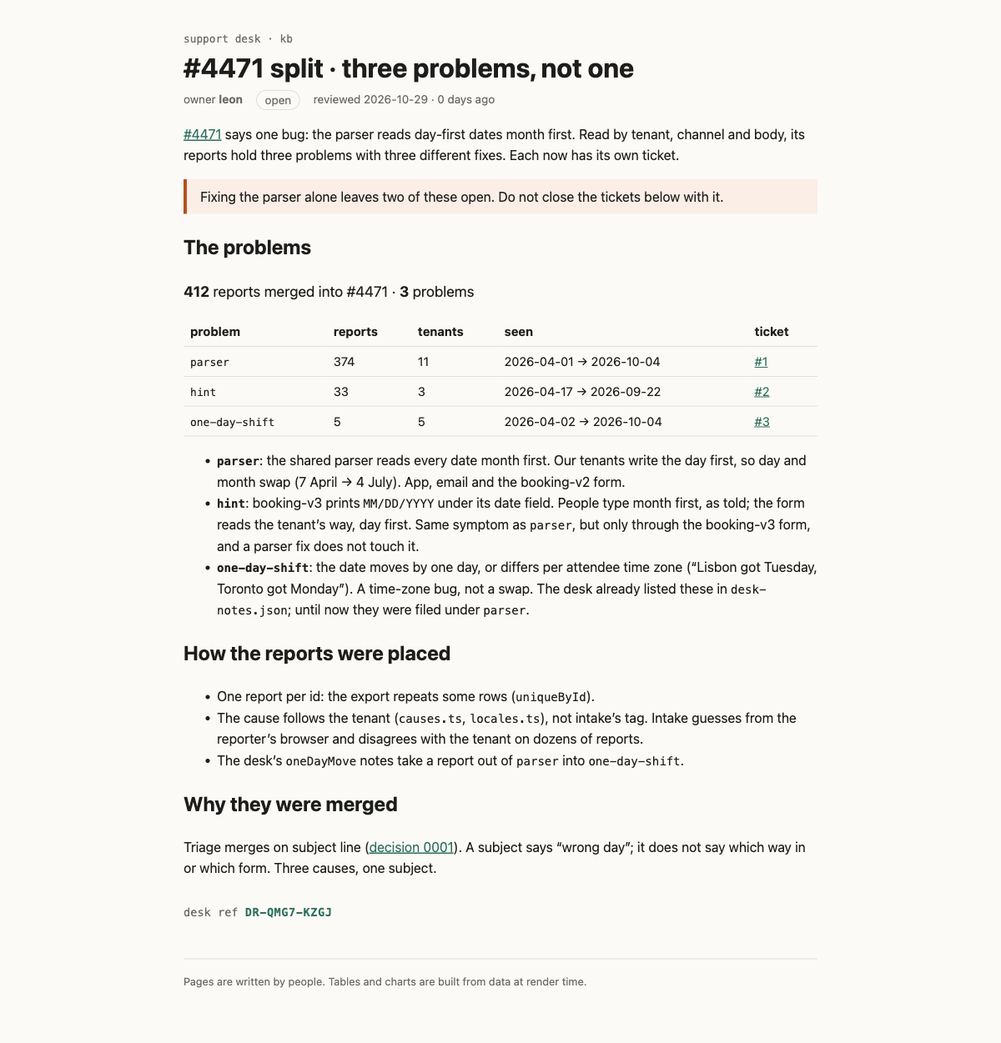
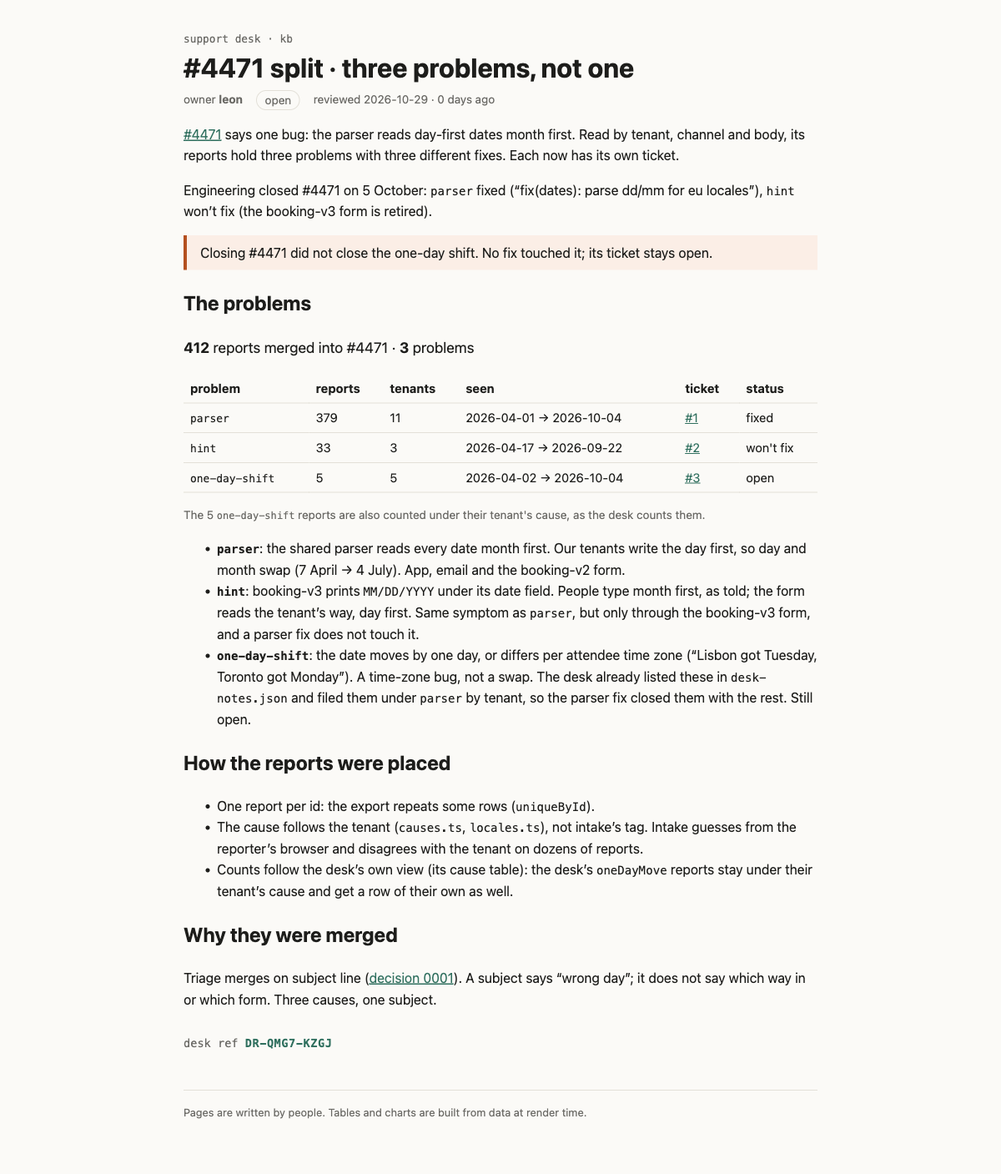
kb: #4471 split after the engineering update
Counts follow the desk's cause table (parser 379, one-day moves also
counted under their tenant's cause). Adds a status column: parser fixed,
hint won't fix (booking-v3 retired), one-day shift still open.

Changed region(s): [[0.185, 0.0312, 0.8325, 0.9041], [0.185, 0.9353, 0.5858, 0.9664]]

diff --git a/rendered/kb/incidents/4471/split.html b/rendered/kb/incidents/4471/split.html
@@ -9,43 +9,46 @@
 		<link href="../../../_app/immutable/chunks/B2Ul7l_u.js" rel="modulepreload">
 		<link href="../../../_app/immutable/chunks/BCPXOG7W.js" rel="modulepreload">
 		<link href="../../../_app/immutable/chunks/Dh1V97Jm.js" rel="modulepreload">
-		<link href="../../../_app/immutable/entry/app.D2J9NGue.js" rel="modulepreload">
+		<link href="../../../_app/immutable/entry/app.WtcD_OFS.js" rel="modulepreload">
 		<link href="../../../_app/immutable/nodes/0.C9KfiiPz.js" rel="modulepreload">
 		<link href="../../../_app/immutable/chunks/DK3Fl9T5.js" rel="modulepreload">
-		<link href="../../../_app/immutable/nodes/5.BkqYAxIV.js" rel="modulepreload">
-		<link href="../../../_app/immutable/chunks/Do1L2v9b.js" rel="modulepreload">
+		<link href="../../../_app/immutable/nodes/5.Dz5Aq1F1.js" rel="modulepreload">
+		<link href="../../../_app/immutable/chunks/NqUrn_PJ.js" rel="modulepreload">
 		<link href="../../../_app/immutable/chunks/BTPwLomz.js" rel="modulepreload">
 		<link href="../../../_app/immutable/chunks/CVBzP17p.js" rel="modulepreload">
 		<link href="../../../_app/immutable/chunks/BIy4WKJS.js" rel="modulepreload">
 		<!--e2jw2j--><!----><title>#4471 split · three problems, not one · support kb</title>
 		<link href="../../../_app/immutable/assets/runbook.COyw0cbZ.css" rel="stylesheet">
 		<link href="../../../_app/immutable/assets/Callout.AbLv9dM_.css" rel="stylesheet">
-		<link href="../../../_app/immutable/assets/_page.CgouBqEL.css" rel="stylesheet">
+		<link href="../../../_app/immutable/assets/_page.l10rmzXo.css" rel="stylesheet">
   </head>
   <body>
     <div style="display: contents"><!--[--><!--[--><!--[0--><!--[--><!--[--><!--[-1--><!--[--><div class="kb svelte-e2jw2j"><header><a class="crumb svelte-e2jw2j" href="/kb">support desk · kb</a> <h1 class="svelte-e2jw2j">#4471 split · three problems, not one</h1> <p class="meta svelte-e2jw2j"><span>owner <b>leon</b></span> <span class="status open svelte-e2jw2j">open</span> <span class="svelte-e2jw2j">reviewed 2026-10-29 · 0 days ago</span></p></header> <!--[-1--><!--]--> <main><p><a href="/kb/incidents/4471">#4471</a> says one bug: the parser reads day-first dates month first. Read by
 tenant, channel and body, its reports hold three problems with three different fixes.
-Each now has its own ticket.</p> <aside class="warn svelte-17bri61"><!---->Fixing the parser alone leaves two of these open. Do not close the tickets below with it.<!----></aside><!----> <h2>The problems</h2> <p class="sum svelte-1op6c6"><strong>412</strong> reports merged into #4471 · <strong>3</strong> problems</p> <table><thead><tr><th>problem</th><th>reports</th><th>tenants</th><th>seen</th><th>ticket</th></tr></thead><tbody><!--[--><tr><td><code>parser</code></td><td>374</td><td>11</td><td>2026-04-01 → 2026-10-04</td><td><!--[0--><a href="https://github.com/ljaworski/mega-s01e03-what-it-shows/issues/1">#1</a><!--]--></td></tr><tr><td><code>hint</code></td><td>33</td><td>3</td><td>2026-04-17 → 2026-09-22</td><td><!--[0--><a href="https://github.com/ljaworski/mega-s01e03-what-it-shows/issues/2">#2</a><!--]--></td></tr><tr><td><code>one-day-shift</code></td><td>5</td><td>5</td><td>2026-04-02 → 2026-10-04</td><td><!--[0--><a href="https://github.com/ljaworski/mega-s01e03-what-it-shows/issues/3">#3</a><!--]--></td></tr><!--]--></tbody></table><!----> <ul><li><strong><code>parser</code></strong>: the shared parser reads every date month first. Our tenants write the day
+Each now has its own ticket.</p> <p>Engineering closed #4471 on 5 October: <code>parser</code> fixed (“fix(dates): parse dd/mm for eu
+locales”), <code>hint</code> won’t fix (the booking-v3 form is retired).</p> <aside class="warn svelte-17bri61"><!---->Closing #4471 did not close the one-day shift. No fix touched it; its ticket stays open.<!----></aside><!----> <h2>The problems</h2> <p class="sum svelte-1op6c6"><strong>412</strong> reports merged into #4471 · <strong>3</strong> problems</p> <table><thead><tr><th>problem</th><th>reports</th><th>tenants</th><th>seen</th><th>ticket</th><th>status</th></tr></thead><tbody><!--[--><tr><td><code>parser</code></td><td>379</td><td>11</td><td>2026-04-01 → 2026-10-04</td><td><!--[0--><a href="https://github.com/ljaworski/mega-s01e03-what-it-shows/issues/1">#1</a><!--]--></td><td>fixed</td></tr><tr><td><code>hint</code></td><td>33</td><td>3</td><td>2026-04-17 → 2026-09-22</td><td><!--[0--><a href="https://github.com/ljaworski/mega-s01e03-what-it-shows/issues/2">#2</a><!--]--></td><td>won't fix</td></tr><tr><td><code>one-day-shift</code></td><td>5</td><td>5</td><td>2026-04-02 → 2026-10-04</td><td><!--[0--><a href="https://github.com/ljaworski/mega-s01e03-what-it-shows/issues/3">#3</a><!--]--></td><td>open</td></tr><!--]--></tbody></table> <!--[0--><p class="note svelte-1op6c6">The 5 <code>one-day-shift</code> reports are also counted under their tenant's cause, as the desk counts them.</p><!--]--><!----> <ul><li><strong><code>parser</code></strong>: the shared parser reads every date month first. Our tenants write the day
 first, so day and month swap (7 April → 4 July). App, email and the booking-v2 form.</li> <li><strong><code>hint</code></strong>: booking-v3 prints <code>MM/DD/YYYY</code> under its date field. People type month first,
 as told; the form reads the tenant’s way, day first. Same symptom as <code>parser</code>, but only
 through the booking-v3 form, and a parser fix does not touch it.</li> <li><strong><code>one-day-shift</code></strong>: the date moves by one day, or differs per attendee time zone (“Lisbon
 got Tuesday, Toronto got Monday”). A time-zone bug, not a swap. The desk already listed these
-in <code>desk-notes.json</code>; until now they were filed under <code>parser</code>.</li></ul> <h2>How the reports were placed</h2> <ul><li>One report per id: the export repeats some rows (<code>uniqueById</code>).</li> <li>The cause follows the tenant (<code>causes.ts</code>, <code>locales.ts</code>), not intake’s tag. Intake guesses
-from the reporter’s browser and disagrees with the tenant on dozens of reports.</li> <li>The desk’s <code>oneDayMove</code> notes take a report out of <code>parser</code> into <code>one-day-shift</code>.</li></ul> <h2>Why they were merged</h2> <p>Triage merges on subject line (<a href="/kb/decisions/0001-dedupe-by-subject">decision 0001</a>). A
+in <code>desk-notes.json</code> and filed them under <code>parser</code> by tenant, so the parser fix closed them
+with the rest. Still open.</li></ul> <h2>How the reports were placed</h2> <ul><li>One report per id: the export repeats some rows (<code>uniqueById</code>).</li> <li>The cause follows the tenant (<code>causes.ts</code>, <code>locales.ts</code>), not intake’s tag. Intake guesses
+from the reporter’s browser and disagrees with the tenant on dozens of reports.</li> <li>Counts follow the desk’s own view (its cause table): the desk’s <code>oneDayMove</code> reports stay
+under their tenant’s cause and get a row of their own as well.</li></ul> <h2>Why they were merged</h2> <p>Triage merges on subject line (<a href="/kb/decisions/0001-dedupe-by-subject">decision 0001</a>). A
 subject says “wrong day”; it does not say which way in or which form. Three causes, one subject.</p> <!--[0--><p class="stamp svelte-1280m42">desk ref <b class="svelte-1280m42">DR-QMG7-KZGJ</b></p><!--]--><!----><!----></main> <footer class="svelte-e2jw2j">Pages are written by people. Tables and charts are built from data at render time.</footer></div><!--]--><!--]--><!--]--><!----><!--]--><!--]--><!--]--><!----> <!--[-1--><!--]--><!--]-->
 			
 			<script>
 				{
-					__sveltekit_kxq0wt = {
+					__sveltekit_mimcuw = {
 						base: new URL("../../..", location).pathname.slice(0, -1),
-						version: "1793270823923"
+						version: "1793271088151"
 					};
 
 					const element = document.currentScript.parentElement;
 
 					import("../../../_app/immutable/entry/start.CH5w6lId.js").then(async (kit) => {
-						kit.init(__sveltekit_kxq0wt);
-						const app = await import("../../../_app/immutable/entry/app.D2J9NGue.js");
+						kit.init(__sveltekit_mimcuw);
+						const app = await import("../../../_app/immutable/entry/app.WtcD_OFS.js");
 						kit.start(app, element, {
 							node_ids: [0, 5],
 							data: [null,null],

diff --git a/rendered/_app/immutable/chunks/NqUrn_PJ.js b/rendered/_app/immutable/chunks/NqUrn_PJ.js
@@ -1,0 +1,13 @@
+import{t as e}from"./DK3Fl9T5.js";import{E as t,F as n,H as r,I as i,K as a,L as o,N as s,O as c,R as l,S as u,T as d,U as f,W as p,_ as m,c as h,h as g,k as _,n as v,q as y,r as b,t as x,w as S}from"./BCPXOG7W.js";import{t as C}from"./BTPwLomz.js";import{n as w,t as T}from"./CVBzP17p.js";import{a as E,l as D,r as O,t as k}from"./BIy4WKJS.js";var A=t(`<a> </a>`),j=t(`<tr><td><code> </code></td><td> </td><td> </td><td> </td><td><!></td><td> </td></tr>`),M=t(`<p class="note svelte-1op6c6"> <code>one-day-shift</code> reports are also counted under their tenant's cause, as the desk counts them.</p>`),N=t(`<p class="sum svelte-1op6c6"><strong> </strong> <strong> </strong> problems</p> <table><thead><tr><th>problem</th><th>reports</th><th>tenants</th><th>seen</th><th>ticket</th><th>status</th></tr></thead><tbody></tbody></table> <!>`,1);function P(e,t){p(t,!0);let d=v(t,`issues`,19,()=>({})),b=v(t,`status`,19,()=>({})),x=r(()=>D(w).filter(e=>e.mergedInto===t.ticket)),C=r(()=>_(x).filter(e=>T.oneDayMove.includes(e.id))),k=e=>e.map(e=>e.receivedAt.slice(0,10)).sort(),P=r(()=>[...E(_(x),O).map(e=>({problem:e.cause,reports:e.reports,tenants:e.tenants})),..._(C).length?[{problem:`one-day-shift`,reports:_(C),tenants:new Set(_(C).map(e=>e.tenant)).size}]:[]]);var F=N(),I=i(F),L=n(I),R=o(L,!0),z=l(L),B=l(z),V=o(B,!0);a(),y(I);var H=l(I,2),U=l(n(H));g(U,21,()=>_(P),e=>e.problem,(e,t)=>{var r=j(),i=n(r),a=n(i),f=o(a,!0);y(i);var p=l(i),g=o(p,!0),v=l(p),x=o(v,!0),C=l(v),w=o(C),T=l(C),E=n(T),D=e=>{var n=A(),r=o(n);s(e=>{h(n,`href`,d()[_(t).problem]),u(r,`#${e??``}`)},[()=>d()[_(t).problem].split(`/`).at(-1)]),S(e,n)},O=e=>{var t=c(`—`);S(e,t)};m(E,e=>{d()[_(t).problem]?e(D):e(O,-1)}),y(T);var M=l(T),N=o(M,!0);y(r),s((e,n)=>{u(f,_(t).problem),u(g,_(t).reports.length),u(x,_(t).tenants),u(w,`${e??``} → ${n??``}`),u(N,b()[_(t).problem]??`—`)},[()=>k(_(t).reports)[0],()=>k(_(t).reports).at(-1)]),S(e,r)}),y(U),y(H);var W=l(H,2),G=e=>{var t=M(),r=n(t);a(2),y(t),s(()=>u(r,`The ${_(C).length??``} `)),S(e,t)};m(W,e=>{_(C).length&&e(G)}),s(()=>{u(R,_(x).length),u(z,` reports merged into #${t.ticket??``} · `),u(V,_(P).length)}),S(e,F),f()}var F=`0123456789ABCDEFGHJKMNPQRSTVWXYZ`;function I(e,t){let n=t>>>0;for(let t=0;t<e.length;t++)n^=e.charCodeAt(t),n=Math.imul(n,16777619)>>>0;return n}function L(e){let t=e.trim(),n=I(t,2166136261),r=I(t,2654435769),i=BigInt(n)<<8n|BigInt(r&255),a=``;for(let e=0;e<8;e++)a=F[Number(i&31n)]+a,i>>=5n;return`DR-${a.slice(0,4)}-${a.slice(4)}`}var R=t(`<p class="stamp svelte-1280m42">desk ref <b class="svelte-1280m42"> </b></p>`),z=t(`<p class="stamp missing svelte-1280m42">no desk ref: this page isn't signed (no <code>signature</code> in its frontmatter)</p>`);function B(e,t){p(t,!0);let a=r(()=>t.signature?L(t.signature):null);var c=d(),h=i(c),g=e=>{var t=R(),r=l(n(t)),i=o(r,!0);y(t),s(()=>u(i,_(a))),S(e,t)},v=e=>{var t=z();S(e,t)};m(h,e=>{_(a)?e(g):e(v,-1)}),S(e,c),f()}var V=e({default:()=>X,metadata:()=>H}),H={layout:`runbook`,title:`#4471 split · three problems, not one`,owner:`leon`,status:`open`,reviewed:`2026-10-29T00:00:00.000Z`,signature:`v1.eyJzdWIiOiI1MTk0IiwiYXVkIjoiY2hhbGxlbmdlOndoYXQtaXQtc2hvd3MiLCJpYXQiOjE3OTMyNzA0NzYsImV4cCI6MTc5MzM1Njg3Nn0.yQCJJq495bMoJpZHYm20pMmKZVcDpp5b08XT_9W3PH0`},{layout:U,title:W,owner:G,status:K,reviewed:q,signature:J}=H,Y=t(`<p><a href="/kb/incidents/4471">#4471</a> says one bug: the parser reads day-first dates month first. Read by
+tenant, channel and body, its reports hold three problems with three different fixes.
+Each now has its own ticket.</p> <p>Engineering closed #4471 on 5 October: <code>parser</code> fixed (“fix(dates): parse dd/mm for eu
+locales”), <code>hint</code> won’t fix (the booking-v3 form is retired).</p> <!> <h2>The problems</h2> <!> <ul><li><strong><code>parser</code></strong>: the shared parser reads every date month first. Our tenants write the day
+first, so day and month swap (7 April → 4 July). App, email and the booking-v2 form.</li> <li><strong><code>hint</code></strong>: booking-v3 prints <code>MM/DD/YYYY</code> under its date field. People type month first,
+as told; the form reads the tenant’s way, day first. Same symptom as <code>parser</code>, but only
+through the booking-v3 form, and a parser fix does not touch it.</li> <li><strong><code>one-day-shift</code></strong>: the date moves by one day, or differs per attendee time zone (“Lisbon
+got Tuesday, Toronto got Monday”). A time-zone bug, not a swap. The desk already listed these
+in <code>desk-notes.json</code> and filed them under <code>parser</code> by tenant, so the parser fix closed them
+with the rest. Still open.</li></ul> <h2>How the reports were placed</h2> <ul><li>One report per id: the export repeats some rows (<code>uniqueById</code>).</li> <li>The cause follows the tenant (<code>causes.ts</code>, <code>locales.ts</code>), not intake’s tag. Intake guesses
+from the reporter’s browser and disagrees with the tenant on dozens of reports.</li> <li>Counts follow the desk’s own view (its cause table): the desk’s <code>oneDayMove</code> reports stay
+under their tenant’s cause and get a row of their own as well.</li></ul> <h2>Why they were merged</h2> <p>Triage merges on subject line (<a href="/kb/decisions/0001-dedupe-by-subject">decision 0001</a>). A
+subject says “wrong day”; it does not say which way in or which form. Three causes, one subject.</p> <!>`,1);function X(e,t){let n=x(t,[`children`,`$$slots`,`$$events`,`$$legacy`]),r=`https://github.com/ljaworski/mega-s01e03-what-it-shows/issues`,o={parser:`${r}/1`,hint:`${r}/2`,"one-day-shift":`${r}/3`},s={parser:`fixed`,hint:`won't fix`,"one-day-shift":`open`};C(e,b(()=>n,()=>H,{children:(e,t)=>{var n=Y(),r=l(i(n),4);k(r,{kind:`warn`,children:(e,t)=>{a();var n=c(`Closing #4471 did not close the one-day shift. No fix touched it; its ticket stays open.`);S(e,n)},$$slots:{default:!0}});var u=l(r,4);P(u,{ticket:4471,get issues(){return o},get status(){return s}}),B(l(u,12),{get signature(){return J}}),S(e,n)},$$slots:{default:!0}}))}export{X as n,V as t};

diff --git a/src/lib/kb/ProblemTable.svelte b/src/lib/kb/ProblemTable.svelte
@@ -4,26 +4,19 @@
   import { groupByCause, uniqueById, type Report } from '#lib/kb/causes';
   import { tenantOf } from '#lib/kb/locales';
 
-  // One row per problem merged into the ticket. Reports the desk read as a one-day move
-  // (desk-notes.json) are not a day/month swap, so they get their own row instead of a footnote.
-  let { ticket, issues = {} }: { ticket: number; issues?: Record<string, string> } = $props();
+  // One row per problem merged into the ticket. Causes are counted the desk's way (CauseTable:
+  // by tenant). Reports the desk read as a one-day move (desk-notes.json) are not a day/month
+  // swap, so they also get a row of their own instead of only a footnote.
+  let { ticket, issues = {}, status = {} }: { ticket: number; issues?: Record<string, string>; status?: Record<string, string> } =
+    $props();
 
   const merged = $derived(uniqueById(reports as Report[]).filter((r) => r.mergedInto === ticket));
   const shifted = $derived(merged.filter((r) => notes.oneDayMove.includes(r.id)));
+  const days = (rs: Report[]) => rs.map((r) => r.receivedAt.slice(0, 10)).sort();
   const rows = $derived([
-    ...groupByCause(merged.filter((r) => !notes.oneDayMove.includes(r.id)), tenantOf).map((g) => ({
-      problem: g.cause,
-      reports: g.reports.length,
-      tenants: g.tenants,
-      seen: `${g.firstSeen} → ${g.lastSeen}`,
-    })),
+    ...groupByCause(merged, tenantOf).map((g) => ({ problem: g.cause, reports: g.reports, tenants: g.tenants })),
     ...(shifted.length
-      ? [{
-          problem: 'one-day-shift',
-          reports: shifted.length,
-          tenants: new Set(shifted.map((r) => r.tenant)).size,
-          seen: `${shifted.map((r) => r.receivedAt.slice(0, 10)).sort()[0]} → ${shifted.map((r) => r.receivedAt.slice(0, 10)).sort().at(-1)}`,
-        }]
+      ? [{ problem: 'one-day-shift', reports: shifted, tenants: new Set(shifted.map((r) => r.tenant)).size }]
       : []),
   ]);
 </script>
@@ -34,20 +27,26 @@
 </p>
 
 <table>
-  <thead><tr><th>problem</th><th>reports</th><th>tenants</th><th>seen</th><th>ticket</th></tr></thead>
+  <thead><tr><th>problem</th><th>reports</th><th>tenants</th><th>seen</th><th>ticket</th><th>status</th></tr></thead>
   <tbody>
     {#each rows as r (r.problem)}
       <tr>
         <td><code>{r.problem}</code></td>
-        <td>{r.reports}</td>
+        <td>{r.reports.length}</td>
         <td>{r.tenants}</td>
-        <td>{r.seen}</td>
+        <td>{days(r.reports)[0]} → {days(r.reports).at(-1)}</td>
         <td>{#if issues[r.problem]}<a href={issues[r.problem]}>#{issues[r.problem].split('/').at(-1)}</a>{:else}—{/if}</td>
+        <td>{status[r.problem] ?? '—'}</td>
       </tr>
     {/each}
   </tbody>
 </table>
 
+{#if shifted.length}
+  <p class="note">The {shifted.length} <code>one-day-shift</code> reports are also counted under their tenant's cause, as the desk counts them.</p>
+{/if}
+
 <style>
   .sum { font-size: 1.1rem; }
+  .note { color: var(--muted); font-size: 0.85em; }
 </style>

diff --git a/rendered/kb.html b/rendered/kb.html
@@ -9,22 +9,22 @@
 		<link href="./_app/immutable/chunks/B2Ul7l_u.js" rel="modulepreload">
 		<link href="./_app/immutable/chunks/BCPXOG7W.js" rel="modulepreload">
 		<link href="./_app/immutable/chunks/Dh1V97Jm.js" rel="modulepreload">
-		<link href="./_app/immutable/entry/app.D2J9NGue.js" rel="modulepreload">
+		<link href="./_app/immutable/entry/app.WtcD_OFS.js" rel="modulepreload">
 		<link href="./_app/immutable/nodes/0.C9KfiiPz.js" rel="modulepreload">
 		<link href="./_app/immutable/chunks/DK3Fl9T5.js" rel="modulepreload">
-		<link href="./_app/immutable/nodes/2.Dl7bwH2X.js" rel="modulepreload">
+		<link href="./_app/immutable/nodes/2.ChipiNL0.js" rel="modulepreload">
 		<link href="./_app/immutable/chunks/BTPwLomz.js" rel="modulepreload">
 		<link href="./_app/immutable/chunks/YX22L_Ud.js" rel="modulepreload">
 		<link href="./_app/immutable/chunks/CgeRC4yK.js" rel="modulepreload">
 		<link href="./_app/immutable/chunks/CVBzP17p.js" rel="modulepreload">
 		<link href="./_app/immutable/chunks/BIy4WKJS.js" rel="modulepreload">
-		<link href="./_app/immutable/chunks/Do1L2v9b.js" rel="modulepreload">
+		<link href="./_app/immutable/chunks/NqUrn_PJ.js" rel="modulepreload">
 		<link href="./_app/immutable/chunks/BGqJVSDw.js" rel="modulepreload">
 		<!--e2jw2j--><!----><title>Support knowledge base · support kb</title>
 		<link href="./_app/immutable/assets/runbook.COyw0cbZ.css" rel="stylesheet">
 		<link href="./_app/immutable/assets/Callout.AbLv9dM_.css" rel="stylesheet">
 		<link href="./_app/immutable/assets/_page.D56XP2ro.css" rel="stylesheet">
-		<link href="./_app/immutable/assets/_page.CgouBqEL.css" rel="stylesheet">
+		<link href="./_app/immutable/assets/_page.l10rmzXo.css" rel="stylesheet">
 		<link href="./_app/immutable/assets/_page.DO6Yid7X.css" rel="stylesheet">
 		<link href="./_app/immutable/assets/2.Bt0MwIZg.css" rel="stylesheet">
   </head>
@@ -34,16 +34,16 @@ computed by a component, not typed into a paragraph.</p><!----></main> <footer c
 			
 			<script>
 				{
-					__sveltekit_kxq0wt = {
+					__sveltekit_mimcuw = {
 						base: new URL(".", location).pathname.slice(0, -1),
-						version: "1793270823923"
+						version: "1793271088151"
 					};
 
 					const element = document.currentScript.parentElement;
 
 					import("./_app/immutable/entry/start.CH5w6lId.js").then(async (kit) => {
-						kit.init(__sveltekit_kxq0wt);
-						const app = await import("./_app/immutable/entry/app.D2J9NGue.js");
+						kit.init(__sveltekit_mimcuw);
+						const app = await import("./_app/immutable/entry/app.WtcD_OFS.js");
 						kit.start(app, element, {
 							node_ids: [0, 2],
 							data: [null,null],

diff --git a/rendered/_app/immutable/nodes/2.ChipiNL0.js b/rendered/_app/immutable/nodes/2.ChipiNL0.js
@@ -1,0 +1,2 @@
+import{E as e,F as t,I as n,K as r,L as i,N as a,R as o,S as s,U as c,W as l,c as u,d,h as f,i as p,k as m,q as h,r as g,t as _,w as v}from"../chunks/BCPXOG7W.js";import{n as y,r as b,t as x}from"../chunks/BTPwLomz.js";import{t as S}from"../chunks/YX22L_Ud.js";import{t as C}from"../chunks/CgeRC4yK.js";import{t as w}from"../chunks/NqUrn_PJ.js";import{t as T}from"../chunks/BGqJVSDw.js";var E=e(`<tr><td><a> </a></td><td> </td><td> </td><td> </td></tr>`),D=e(`<table><thead><tr><th>page</th><th>owner</th><th>status</th><th>reviewed</th></tr></thead><tbody></tbody></table>`);function O(e,n){l(n,!1);let r=Object.entries(Object.assign({"/src/routes/kb/decisions/0001-dedupe-by-subject/+page.svx":S,"/src/routes/kb/incidents/4471/+page.svx":C,"/src/routes/kb/incidents/4471/split/+page.svx":w,"/src/routes/kb/triage/dedupe/+page.svx":T})).map(([e,t])=>({href:e.replace(`/src/routes`,``).replace(`/+page.svx`,``),...t.metadata})).sort((e,t)=>e.href.localeCompare(t.href));p();var g=D(),_=o(t(g));f(_,5,()=>r,e=>e.href,(e,n)=>{var r=E(),c=t(r),l=t(c),f=i(l,!0);h(c);var p=o(c),g=i(p,!0),_=o(p),x=i(_,!0),S=o(_);let C;var w=i(S,!0);h(r),a((e,t)=>{u(l,`href`,m(n).href),s(f,m(n).title),s(g,m(n).owner),s(x,m(n).status),C=d(S,1,`svelte-tbc1ha`,null,C,{stale:e}),s(w,t)},[()=>y(m(n).reviewed)>180,()=>b(m(n).reviewed)]),v(e,r)}),h(_),h(g),v(e,g),c()}var k={layout:`runbook`,title:`Support knowledge base`,owner:`support desk`,status:`living`,reviewed:`2026-09-28T00:00:00.000Z`},{layout:A,title:j,owner:M,status:N,reviewed:P}=k,F=e(`<p>What the support desk knows, kept next to the code that knows it. One desk, every product: <code>sched-prod</code> (calendar invites for about 300k people) and the rest. When something breaks, the reports land here first.</p> <p>Start with <a href="/kb/triage/dedupe">triage</a> if you are new on the desk.</p> <h2>Pages</h2> <!> <h2>Writing a page</h2> <p>Keep the words here and the logic in <code>src/lib</code>. A number that can be computed should be
+computed by a component, not typed into a paragraph.</p>`,1);function I(e,t){let i=_(t,[`children`,`$$slots`,`$$events`,`$$legacy`]);x(e,g(()=>i,()=>k,{children:(e,t)=>{var i=F();O(o(n(i),6),{}),r(4),v(e,i)},$$slots:{default:!0}}))}export{I as component};

diff --git a/rendered/_app/immutable/entry/app.WtcD_OFS.js b/rendered/_app/immutable/entry/app.WtcD_OFS.js
@@ -1,0 +1,2 @@
+const __vite__mapDeps=(i,m=__vite__mapDeps,d=(m.f||(m.f=["../nodes/0.C9KfiiPz.js","../chunks/DK3Fl9T5.js","../chunks/BCPXOG7W.js","../nodes/1.mOwa9YdW.js","../chunks/Dh1V97Jm.js","./payload.DSmR2FwN.js","../nodes/2.ChipiNL0.js","../chunks/BTPwLomz.js","../assets/runbook.COyw0cbZ.css","../chunks/YX22L_Ud.js","../chunks/CgeRC4yK.js","../chunks/CVBzP17p.js","../chunks/BIy4WKJS.js","../assets/Callout.AbLv9dM_.css","../assets/_page.D56XP2ro.css","../chunks/NqUrn_PJ.js","../assets/_page.l10rmzXo.css","../chunks/BGqJVSDw.js","../assets/_page.DO6Yid7X.css","../assets/2.Bt0MwIZg.css","../nodes/3.DRxPfvn3.js","../nodes/4.rt2PfD_4.js","../nodes/5.Dz5Aq1F1.js","../nodes/6.sFtxrtyV.js"])))=>i.map(i=>d[i]);
+import{t as e}from"../chunks/CRzLMJPS.js";var t={},n=[()=>e(()=>import(`../nodes/0.C9KfiiPz.js`),__vite__mapDeps([0,1,2]),import.meta.url),()=>e(()=>import(`../nodes/1.mOwa9YdW.js`),__vite__mapDeps([3,2,4,5]),import.meta.url),()=>e(()=>import(`../nodes/2.ChipiNL0.js`),__vite__mapDeps([6,2,7,8,9,1,10,11,12,13,14,15,16,17,18,19]),import.meta.url),()=>e(()=>import(`../nodes/3.DRxPfvn3.js`),__vite__mapDeps([20,9,1,2,7,8]),import.meta.url),()=>e(()=>import(`../nodes/4.rt2PfD_4.js`),__vite__mapDeps([21,10,1,2,7,8,11,12,13,14]),import.meta.url),()=>e(()=>import(`../nodes/5.Dz5Aq1F1.js`),__vite__mapDeps([22,15,1,2,7,8,11,12,13,16]),import.meta.url),()=>e(()=>import(`../nodes/6.sFtxrtyV.js`),__vite__mapDeps([23,17,1,2,7,8,12,13,18]),import.meta.url)],r=[],i={"/kb":[2],"/kb/decisions/0001-dedupe-by-subject":[3],"/kb/incidents/4471":[4],"/kb/incidents/4471/split":[5],"/kb/triage/dedupe":[6]},a={handleError:(({kind:e,error:t})=>{e===`unknown`&&console.error(t)}),reroute:(()=>{}),transport:{}},o=Object.fromEntries(Object.entries(a.transport).map(([e,t])=>[e,t.decode])),s=Object.fromEntries(Object.entries(a.transport).map(([e,t])=>[e,t.encode])),c=!1,l=(e,t)=>o[e](t),u=()=>e(()=>import(`../chunks/Bjy-W4x2.js`).then(e=>e.default),[],import.meta.url);export{l as decode,o as decoders,i as dictionary,s as encoders,u as get_error_template,c as hash,a as hooks,t as matchers,n as nodes,r as server_loads};

diff --git a/rendered/kb/decisions/0001-dedupe-by-subject.html b/rendered/kb/decisions/0001-dedupe-by-subject.html
@@ -9,7 +9,7 @@
 		<link href="../../_app/immutable/chunks/B2Ul7l_u.js" rel="modulepreload">
 		<link href="../../_app/immutable/chunks/BCPXOG7W.js" rel="modulepreload">
 		<link href="../../_app/immutable/chunks/Dh1V97Jm.js" rel="modulepreload">
-		<link href="../../_app/immutable/entry/app.D2J9NGue.js" rel="modulepreload">
+		<link href="../../_app/immutable/entry/app.WtcD_OFS.js" rel="modulepreload">
 		<link href="../../_app/immutable/nodes/0.C9KfiiPz.js" rel="modulepreload">
 		<link href="../../_app/immutable/chunks/DK3Fl9T5.js" rel="modulepreload">
 		<link href="../../_app/immutable/nodes/3.DRxPfvn3.js" rel="modulepreload">
@@ -26,16 +26,16 @@ engineering merges them later.</li></ul><!----></main> <footer class="svelte-e2j
 			
 			<script>
 				{
-					__sveltekit_kxq0wt = {
+					__sveltekit_mimcuw = {
 						base: new URL("../..", location).pathname.slice(0, -1),
-						version: "1793270823923"
+						version: "1793271088151"
 					};
 
 					const element = document.currentScript.parentElement;
 
 					import("../../_app/immutable/entry/start.CH5w6lId.js").then(async (kit) => {
-						kit.init(__sveltekit_kxq0wt);
-						const app = await import("../../_app/immutable/entry/app.D2J9NGue.js");
+						kit.init(__sveltekit_mimcuw);
+						const app = await import("../../_app/immutable/entry/app.WtcD_OFS.js");
 						kit.start(app, element, {
 							node_ids: [0, 3],
 							data: [null,null],

diff --git a/rendered/kb/incidents/4471.html b/rendered/kb/incidents/4471.html
@@ -9,7 +9,7 @@
 		<link href="../../_app/immutable/chunks/B2Ul7l_u.js" rel="modulepreload">
 		<link href="../../_app/immutable/chunks/BCPXOG7W.js" rel="modulepreload">
 		<link href="../../_app/immutable/chunks/Dh1V97Jm.js" rel="modulepreload">
-		<link href="../../_app/immutable/entry/app.D2J9NGue.js" rel="modulepreload">
+		<link href="../../_app/immutable/entry/app.WtcD_OFS.js" rel="modulepreload">
 		<link href="../../_app/immutable/nodes/0.C9KfiiPz.js" rel="modulepreload">
 		<link href="../../_app/immutable/chunks/DK3Fl9T5.js" rel="modulepreload">
 		<link href="../../_app/immutable/nodes/4.rt2PfD_4.js" rel="modulepreload">
@@ -29,16 +29,16 @@ first. The fix is queued.</p> <aside class="note svelte-17bri61"><!---->Known. O
 			
 			<script>
 				{
-					__sveltekit_kxq0wt = {
+					__sveltekit_mimcuw = {
 						base: new URL("../..", location).pathname.slice(0, -1),
-						version: "1793270823923"
+						version: "1793271088151"
 					};
 
 					const element = document.currentScript.parentElement;
 
 					import("../../_app/immutable/entry/start.CH5w6lId.js").then(async (kit) => {
-						kit.init(__sveltekit_kxq0wt);
-						const app = await import("../../_app/immutable/entry/app.D2J9NGue.js");
+						kit.init(__sveltekit_mimcuw);
+						const app = await import("../../_app/immutable/entry/app.WtcD_OFS.js");
 						kit.start(app, element, {
 							node_ids: [0, 4],
 							data: [null,null],

diff --git a/rendered/kb/triage/dedupe.html b/rendered/kb/triage/dedupe.html
@@ -9,7 +9,7 @@
 		<link href="../../_app/immutable/chunks/B2Ul7l_u.js" rel="modulepreload">
 		<link href="../../_app/immutable/chunks/BCPXOG7W.js" rel="modulepreload">
 		<link href="../../_app/immutable/chunks/Dh1V97Jm.js" rel="modulepreload">
-		<link href="../../_app/immutable/entry/app.D2J9NGue.js" rel="modulepreload">
+		<link href="../../_app/immutable/entry/app.WtcD_OFS.js" rel="modulepreload">
 		<link href="../../_app/immutable/nodes/0.C9KfiiPz.js" rel="modulepreload">
 		<link href="../../_app/immutable/chunks/DK3Fl9T5.js" rel="modulepreload">
 		<link href="../../_app/immutable/nodes/6.sFtxrtyV.js" rel="modulepreload">
@@ -29,16 +29,16 @@ anything else.<!----></aside><!----> <h2>Try it</h2> <div class="try svelte-gq0h
 			
 			<script>
 				{
-					__sveltekit_kxq0wt = {
+					__sveltekit_mimcuw = {
 						base: new URL("../..", location).pathname.slice(0, -1),
-						version: "1793270823923"
+						version: "1793271088151"
 					};
 
 					const element = document.currentScript.parentElement;
 
 					import("../../_app/immutable/entry/start.CH5w6lId.js").then(async (kit) => {
-						kit.init(__sveltekit_kxq0wt);
-						const app = await import("../../_app/immutable/entry/app.D2J9NGue.js");
+						kit.init(__sveltekit_mimcuw);
+						const app = await import("../../_app/immutable/entry/app.WtcD_OFS.js");
 						kit.start(app, element, {
 							node_ids: [0, 6],
 							data: [null,null],

diff --git a/rendered/_app/immutable/assets/_page.l10rmzXo.css b/rendered/_app/immutable/assets/_page.l10rmzXo.css
@@ -1,0 +1,1 @@
+.sum.svelte-1op6c6{font-size:1.1rem}.note.svelte-1op6c6{color:var(--muted);font-size:.85em}.stamp.svelte-1280m42{font:.85rem var(--mono);color:var(--muted);margin:2rem 0 0}.stamp.svelte-1280m42 b:where(.svelte-1280m42){color:var(--accent);letter-spacing:.04em}.missing.svelte-1280m42{color:var(--warn)}

diff --git a/rendered/_app/immutable/nodes/5.Dz5Aq1F1.js b/rendered/_app/immutable/nodes/5.Dz5Aq1F1.js
@@ -1,0 +1,1 @@
+export{n as component}from"../chunks/NqUrn_PJ.js";
